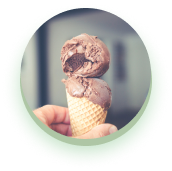
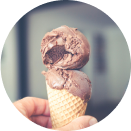
modal-fin

diff --git a/src/partials/modals.html b/src/partials/modals.html
@@ -81,7 +81,7 @@
           </label>
         </li>
       </ul>
-      <div class="modal-form">
+      <div class="mod-buy-now_form">
         <label class="modal-form_label">
           <input
             type="text"
@@ -130,6 +130,7 @@
         </svg>
       </button>
       <h2 class="mod-ingredients_title">Chololate icecream</h2>
+      <div class="ingredients-img-wrap">
       <img
         class="mod-ingredients_img"
         srcset="
@@ -139,8 +140,8 @@
         src="./images/mod-ingredient-1x.png"
         alt="ice cream"
         width="132"
-        height="139"
-      />
+        height="139"/>
+      </div>
       <ul class="mod-ingredients_list">
         <li class="mod-ingredients_item">
           <p class="ingredients-icon_meaning">320</p>
@@ -187,6 +188,7 @@
         </li>
       </ul>
       <form class="modal-form">
+        <div class="form-ingredients_wrap">
         <label class="modal-form_label">
           <input
             type="text"
@@ -202,11 +204,9 @@
             type="tel"
             name="tel"
             placeholder="phone"
-            autofocus="autofocus"
             pattern="[0-9]{0,12}"
             title="Please use your phone"
-            class="modal-form_input"
-          />
+            class="modal-form_input"/>
         </label>
         <label class="modal-form_label">
           <textarea
@@ -220,8 +220,8 @@
             class="modal-form_textarea"
           ></textarea>
         </label>
-      </div>
-      <button type="submit" class="mod-buy-now_button">Submit</button>
+        </div>
+      <button type="submit" class="mod-ingredients_button">Submit</button>
       </form>
     </div>
   </div>
@@ -265,16 +265,16 @@
       href="https://goo.gl/maps/eVM5a4UHusVCzEKq7"
       target="_blank"
       rel="”noreferrer”"
-      class="mod-lacations_link"
-    >
+      class="mod-lacations_link">
       <img
         src="./images/map-location.png"
         alt="map"
         width="220"
         height="199"
-        class="mod-lacations_img"
-    /></a>
-    <button type="button" class="mod-lacations_button">Open map</button>
+        class="mod-lacations_img"/></a>
+        <button class="mod-lacations_button" 
+        onclick="window.location.href = 'https://goo.gl/maps/eVM5a4UHusVCzEKq7';">
+        Open map</button>
   </div>
 </div>
 <!-- Franchise modal ++++++++++++++++++++++++++++++++++++++++++++++++++++++++ -->
@@ -296,48 +296,36 @@
       information. We appreciate your patience.
     </p>
     <form class="modal-form">
-      <label class="modal-form_label">
-        <input
-          type="text"
+      <div class="modal-form_wrap">
+     <label class="modal-form_label">
+      <input  type="text"
           name="name"
           placeholder="name"
           pattern="[A-z]{1,15}"
           title="Please use your name"
-          class="modal-form_input"
-        />
-      </label>
-      <label class="modal-form_label">
-        <input
-          name="tel"
+          class="modal-form_input"/>
+    </label>
+    <label class="modal-form_label">
+      <input name="tel"
           type="tel"
           placeholder="phone"
           pattern="[0-9]{0,12}"
           title="Please use your phone"
-          class="modal-form_input"
-        />
-      </label>
-      <label class="modal-form_label">
-        <input
-          name="email"
+          class="modal-form_input"/>
+    </label>
+    <label class="modal-form_label">
+      <input name="email"
           type="email"
           placeholder="Email"
           title="Please use your email"
-          class="modal-form_input"
-        />
-      </label>
-      <label class="modal-form_label">
-        <textarea
-          name="comment"
-          cols="30"
-          rows="10"
-          placeholder="comment"
-          title="Please use your comment"
-          minlength="3"
-          maxlength="50"
-          class="modal-form_textarea"
-        ></textarea>
-      </label>
-      <button type="submit" class="mod-franchise_button">Submit</button>
+          class="modal-form_input"/>
+    </label>
+    <label class="modal-form_label">
+      <textarea name="comment" cols="30" rows="10" placeholder="comment" title="Please use your comment" minlength="3"
+        maxlength="50" class="modal-form_textarea"></textarea>
+        </label>
+        </div>
+           <button type="submit" class="mod-franchise_button">Submit</button>
     </form>
   </div>
 </div>

diff --git a/src/sass/layouts/_modals.scss b/src/sass/layouts/_modals.scss
@@ -280,16 +280,28 @@
   border-radius: 50%;
 }
 
-.modal-form {
+.mod-buy-now_form {
   display: flex;
-  flex-wrap: wrap;
-  justify-content: center;
-  gap: 12px;
-  text-align: center;
+    flex-wrap: wrap;
+    justify-content: center;
+    gap: 12px;
+    text-align: center;
+  
+    @media screen and (min-width: 768px) {
+      gap: 16px;
+    }
+}
 
-  @media screen and (min-width: 768px) {
-    gap: 16px;
-  }
+.modal-form_wrap {
+  display: flex;
+    flex-wrap: wrap;
+    justify-content: center;
+    gap: 12px;
+    text-align: center;
+  
+    @media screen and (min-width: 768px) {
+      gap: 16px;
+    }
 }
 
 .modal-form_label {
@@ -436,9 +448,23 @@
   }
 }
 
-.mod-ingredients_img {
-  margin-bottom: 24px;
+.ingredients-img-wrap {
+  position: relative;
   margin: 0 auto;
+  margin-bottom: 24px;
+  width: 132px;
+  height: 138px;
+  border-radius: 50%;
+  background: linear-gradient(0deg, rgba(156, 190, 143, 0.7), rgba(156, 190, 143, 0.7)), #D9D9D9;
+    box-shadow: 0px 5.26027px 19.726px rgba(10, 136, 23, 0.25);
+}
+
+.mod-ingredients_img {
+  position: absolute;
+  top: 0;
+  left: 0;
+  margin-bottom: 24px;
+  
 }
 
 .mod-ingredients_item {
@@ -531,6 +557,23 @@
 .ingredients_text {
   @include fonts(400, 14, 25, 0.04);
   color: var(--primary-text-color);
+}
+
+.form-ingredients_wrap {
+  display: flex;
+    flex-wrap: wrap;
+    justify-content: center;
+    gap: 16px;
+    text-align: center;
+}
+.form-ingredients_wrap .modal-form_textarea {
+  padding: 11px;
+  height: 84px;
+
+  @media screen and (min-width: 768px) {
+    width: 368px;
+    padding: 11px 16px;
+  }
 }
 
 .mod-ingredients_button {
@@ -746,6 +789,7 @@
   align-items: center;
   margin: 0 auto;
   padding: 12px 34px;
+  margin-top: 24px;
 
   @include fonts(600, 12, 15, 0);
   background: #f8d24e;
@@ -757,6 +801,7 @@
   @media screen and (min-width: 768px) {
     @include fonts(400, 16, 17, 0);
     margin: 0 auto;
+    margin-top: 32px;
   }
 
   &:hover,
